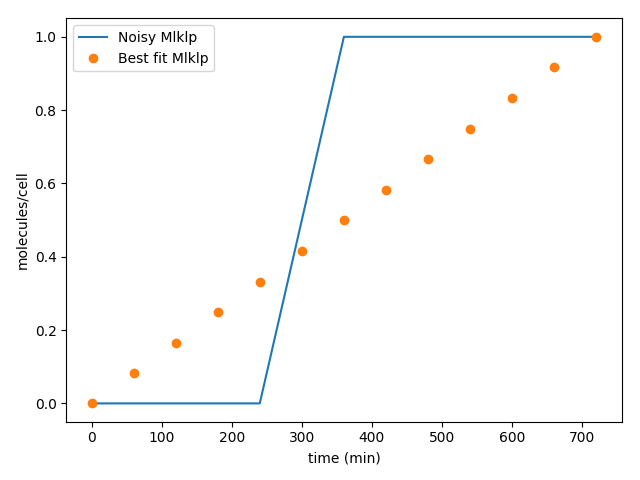
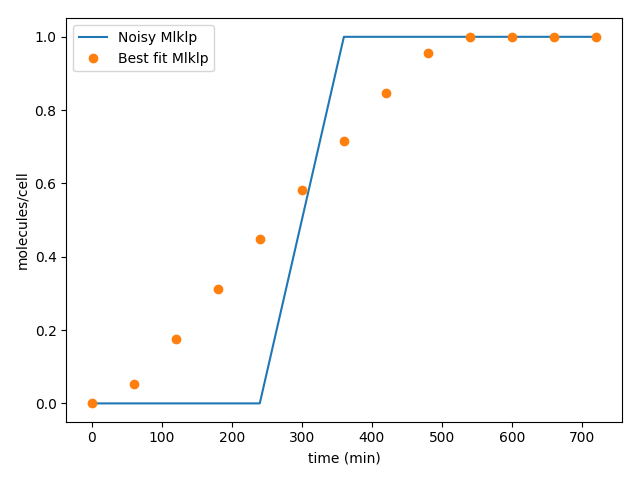
necro results

diff --git a/simplepso/examples/necro_pso.py b/simplepso/examples/necro_pso.py
@@ -145,7 +145,7 @@ def run_example():
     # We also must set bounds. This can be a single scalar or an array of len(start_position)
     optimizer.set_bounds(parameter_range=3)
     optimizer.set_speed(speed_min=-.25, speed_max=.25)
-    optimizer.run(num_particles=25, num_iterations=100)
+    optimizer.run(num_particles=50, num_iterations=100)
     print(optimizer.best)
     # print('whatever')
     if plot:
